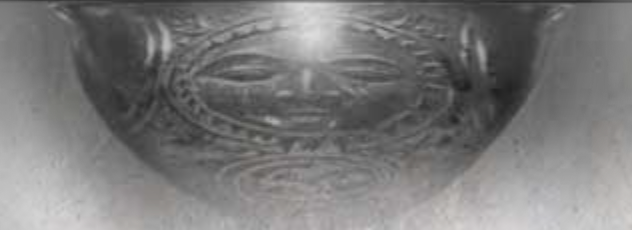
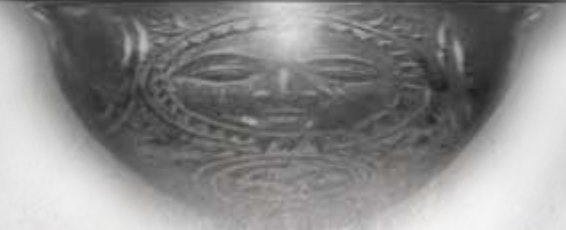
new image

diff --git a/assignments/georgerrmartin/index.html b/assignments/georgerrmartin/index.html
@@ -27,8 +27,7 @@
       #cardsContainer,
       aside,
       main,
-      footer,
-      #bottom {
+      footer {
         border: 3px solid gray;
         background-color: grey;
       }
@@ -166,6 +165,11 @@
         #bottom {
           grid-area: bottom;
         }
+        #bottom img {
+          opacity: 75%;
+          padding: 0px 300px;
+          width: 40%;
+        }
         @media screen and (max-width: 1000px) {
         #gridLayout {
           grid-template-columns: 1fr;
@@ -296,7 +300,7 @@
         &copy; 2022 GEORGE R. R. MARTIN ALL RIGHTS RESERVED.
       </footer>
       <div id="bottom">
-
+        <img src="./GRRMimages/doodadd.png" alt="silver ornament with a face on it">
       </div>
     </div>
   </body>
